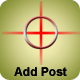
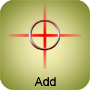
new images from PJ, renamed css files to match image dirs

diff --git a/public/index.html b/public/index.html
@@ -8,8 +8,8 @@
 
     <link rel="stylesheet" href="app/css/jquery.mobile-1.1.1.min.css" />
     <link rel="stylesheet" href="app/css/driveby.css" />
-    <link rel="stylesheet" href="app/css/iphone.css" />
-    <link rel="stylesheet" href="app/css/ipad.css" />
+    <link rel="stylesheet" href="app/css/iPod.css" />
+    <link rel="stylesheet" href="app/css/iPad.css" />
 
     <script type="text/javascript" charset="utf-8" src="app/js/libraries/cordova-1.8.1.js"></script>
     <script type="text/javascript" charset="utf-8" src="app/js/libraries/jquery-1.7.2.min.js"></script>
@@ -47,7 +47,7 @@
   </head>
 
   <body onload="onBodyLoad()">
-    <div data-role="page" id="index" style="background: url(app/images/background.png) no-repeat center center fixed; -webkit-background-size: cover; ">
+    <div data-role="page" id="index" >
 
       <div style="text-align: center">
         <img src="app/images/drive_by_title.png" />
@@ -108,10 +108,10 @@
     <script id="main_icons_template" type="text/x-handlebars-template">
           <div class="main_icons">
             <a id="add_post_link" href="add.html"><img src="app/images/{{device}}/add_post_icon.png" /></a>
-            <a href="#"><img src="app/images/{{device}}/search_icon.png" /></a>
+            <a href="#"><img src="app/images/{{device}}/search_icon_disabled.png" /></a>
             <br />
             <a id="recent_link" href="recent.html"><img src="app/images/{{device}}/recent_icon.png" /></a>
-            <a href="#"><img src="app/images/{{device}}/my_account_icon.png" /></a>
+            <a href="#"><img src="app/images/{{device}}/my_account_icon_disabled.png" /></a>
           </div>
     </script>
 

diff --git a/public/app/css/iPod.css b/public/app/css/iPod.css
@@ -1,0 +1,46 @@
+/* portrait */
+@media screen and (max-device-width: 480px) and (orientation:portrait) {
+
+  .main_icons {
+    padding-left: 50px; 
+    padding-top: 60px;
+  }
+
+  .main_icons img {
+    margin: 0px;
+    margin-left: 5px;
+    padding-left: 5px;
+    padding-right: 3px;
+    padding-bottom: 5px;
+    padding-top: 10px;
+  }
+
+  div#index {
+    background: url(../images/iPod/background_vertical.png) no-repeat center center fixed;
+    -webkit-background-size: cover;
+  }
+}
+
+/* landscape */
+@media screen and (max-device-width: 480px) and (orientation:landscape) {
+
+  .main_icons {
+    padding-left: 140px; 
+    padding-top: 50px;
+  }
+
+  .main_icons img {
+    margin: 0px;
+    margin-left: 0px;
+    padding-left: 0px;
+    padding-right: 3px;
+    padding-bottom: 5px;
+    padding-top: 10px;
+  }
+
+  div#index {
+    background: url(../images/iPod/background_horizontal.png) no-repeat center center fixed;
+    -webkit-background-size: cover;
+  }
+}
+
